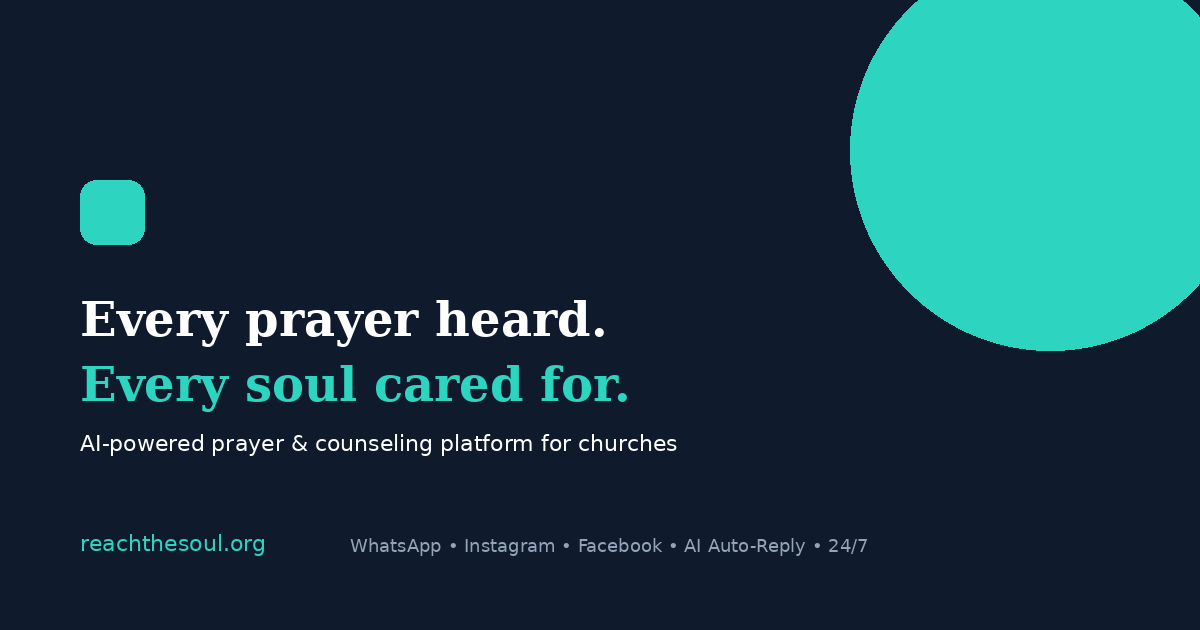
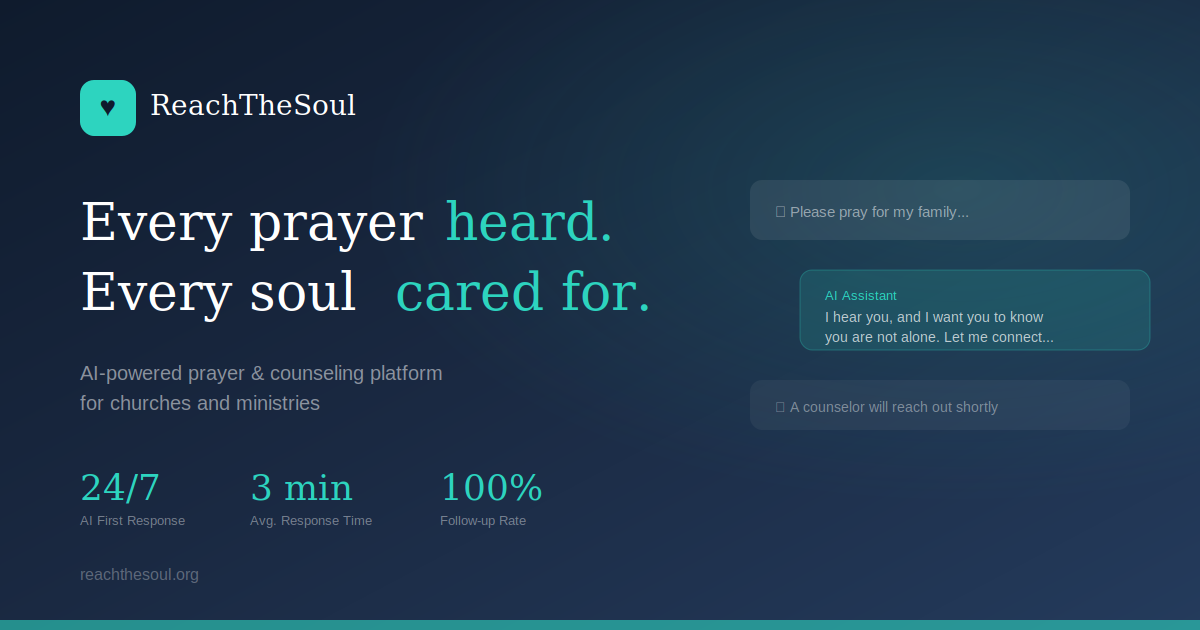
feat: plan management in Platform Admin

diff --git a/app/dashboard/platform/page.tsx b/app/dashboard/platform/page.tsx
@@ -385,6 +385,72 @@ export default function PlatformAdminPage() {
                         <p className="text-lg font-bold text-foreground">{org.usage.waConversationsThisMonth}</p>
                       </div>
                     </div>
+
+                    {/* Plan Management */}
+                    <div className="mt-4 p-3 rounded-lg border border-primary/20 bg-primary/5">
+                      <p className="text-[10px] font-semibold text-foreground mb-2 flex items-center gap-1.5">
+                        <Crown size={11} className="text-amber-500" /> Plan Management
+                      </p>
+                      <div className="flex items-center gap-3">
+                        <div className="flex-1">
+                          <label className="text-[9px] text-muted-foreground uppercase tracking-wide block mb-1">Current Plan</label>
+                          <select
+                            value={org.plan}
+                            onChange={async (e) => {
+                              const newPlan = e.target.value;
+                              try {
+                                const [{ doc, updateDoc, serverTimestamp }, { db }] = await Promise.all([
+                                  import("firebase/firestore"), import("@/lib/firebase"),
+                                ]);
+                                await updateDoc(doc(db, "organizations", org.orgId), {
+                                  plan: newPlan,
+                                  updatedAt: serverTimestamp(),
+                                });
+                                setOrgs((prev) => prev.map((o) => o.orgId === org.orgId ? { ...o, plan: newPlan } : o));
+                              } catch (err) {
+                                console.error("Failed to update plan:", err);
+                                alert("Failed to update plan. Please try again.");
+                              }
+                            }}
+                            className="w-full h-8 rounded-md border border-border bg-background px-2 text-xs font-semibold capitalize"
+                          >
+                            <option value="free">Free ($0)</option>
+                            <option value="starter">Starter ($29/mo)</option>
+                            <option value="growth">Growth ($79/mo)</option>
+                            <option value="enterprise">Enterprise ($249+/mo)</option>
+                          </select>
+                        </div>
+                        <div className="flex-1">
+                          <label className="text-[9px] text-muted-foreground uppercase tracking-wide block mb-1">Status</label>
+                          <button
+                            onClick={async () => {
+                              const newStatus = !org.isActive;
+                              try {
+                                const [{ doc, updateDoc, serverTimestamp }, { db }] = await Promise.all([
+                                  import("firebase/firestore"), import("@/lib/firebase"),
+                                ]);
+                                await updateDoc(doc(db, "organizations", org.orgId), {
+                                  isActive: newStatus,
+                                  updatedAt: serverTimestamp(),
+                                });
+                                setOrgs((prev) => prev.map((o) => o.orgId === org.orgId ? { ...o, isActive: newStatus } : o));
+                              } catch (err) {
+                                console.error("Failed to toggle status:", err);
+                              }
+                            }}
+                            className={cn(
+                              "w-full h-8 rounded-md text-xs font-semibold transition-colors",
+                              org.isActive
+                                ? "bg-green-100 text-green-700 border border-green-300 hover:bg-green-200"
+                                : "bg-red-100 text-red-700 border border-red-300 hover:bg-red-200"
+                            )}
+                          >
+                            {org.isActive ? "✓ Active" : "✕ Inactive"}
+                          </button>
+                        </div>
+                      </div>
+                    </div>
+
                     <div className="mt-3 flex gap-2">
                       <p className="text-[10px] text-muted-foreground flex items-center gap-1">
                         <Calendar size={11} /> Created: {new Date(org.createdAt).toLocaleDateString("en-US", { month: "long", day: "numeric", year: "numeric" })}

diff --git a/app/dashboard/tickets/new/page.tsx b/app/dashboard/tickets/new/page.tsx
@@ -414,9 +414,9 @@ function NewTicketInner() {
                       <Check size={14} className="text-emerald-600 flex-shrink-0" />
                       <div className="flex-1">
                         <p className="text-xs font-semibold text-emerald-700">
-                          {channelConfig.label} sudah dibuka
+                          {channelConfig.label} is already open
                         </p>
-                        <p className="text-[10px] text-emerald-600 mt-0.5">Lanjutkan untuk membuat tiket dari percakapan ini.</p>
+                        <p className="text-[10px] text-emerald-600 mt-0.5">Continue to create a ticket from this conversation.</p>
                       </div>
                       <Button
                         size="sm"
@@ -575,7 +575,7 @@ function NewTicketInner() {
               </div>
 
               <div className="flex justify-end gap-2 pt-2 border-t border-border">
-                <Button variant="outline" size="sm" asChild><Link href="/dashboard/tickets">Batal</Link></Button>
+                <Button variant="outline" size="sm" asChild><Link href="/dashboard/tickets">Cancel</Link></Button>
                 <Button
                   size="sm"
                   disabled={!respondentId || !subject.trim() || saving}
@@ -596,7 +596,7 @@ function NewTicketInner() {
         <Card className="border border-border shadow-none">
           <CardHeader className="pb-3 px-5 pt-5 border-b border-border">
             <CardTitle className="text-sm font-semibold flex items-center gap-2">
-              <ArrowDownLeft size={14} className="text-primary" />Tiket Masuk (Inbound)
+              <ArrowDownLeft size={14} className="text-primary" />Inbound Ticket
             </CardTitle>
           </CardHeader>
           <CardContent className="p-5 flex flex-col gap-4">
@@ -623,7 +623,7 @@ function NewTicketInner() {
                       <span className="text-xs text-muted-foreground">{respondent.city}</span>
                     )}
                     {prevTickets.length > 0 && (
-                      <span className="text-xs text-muted-foreground">{prevTickets.length} tiket sebelumnya</span>
+                      <span className="text-xs text-muted-foreground">{prevTickets.length} previous tickets</span>
                     )}
                   </div>
                 </div>
@@ -662,7 +662,7 @@ function NewTicketInner() {
                 </Select>
               </div>
               <div>
-                <label className="text-[10px] font-semibold text-muted-foreground uppercase tracking-wide mb-1.5 block">Masuk via (Channel)</label>
+                <label className="text-[10px] font-semibold text-muted-foreground uppercase tracking-wide mb-1.5 block">Received via (Channel)</label>
                 <Select value={leadSourceId} onValueChange={setLeadSourceId}>
                   <SelectTrigger className="h-9 text-sm"><SelectValue placeholder="Pilih channel..." /></SelectTrigger>
                   <SelectContent>
@@ -712,7 +712,7 @@ function NewTicketInner() {
             </div>
 
             <div className="flex justify-end gap-2 pt-2 border-t border-border">
-              <Button variant="outline" size="sm" asChild><Link href="/dashboard/tickets">Batal</Link></Button>
+              <Button variant="outline" size="sm" asChild><Link href="/dashboard/tickets">Cancel</Link></Button>
               <Button size="sm" disabled={!respondentId || !subject.trim() || saving} onClick={handleSave}>
                 {saving ? <><Check size={13} className="mr-1.5" />Menyimpan...</> : "Buat Tiket"}
               </Button>

diff --git a/app/dashboard/respondents/[id]/page.tsx b/app/dashboard/respondents/[id]/page.tsx
@@ -27,9 +27,9 @@ import { DEFAULT_PROGRESS_STEPS, DEFAULT_PROGRAM_SOURCES } from "@/types";
 // Progress step config
 const PROGRESS_CONFIG: Record<RespondentProgress, { color: string; bg: string; border: string; desc: string }> = {
   Data:       { color: "text-slate-600",   bg: "bg-slate-100",   border: "border-slate-300",  desc: "Identity recorded" },
-  Doa:        { color: "text-blue-600",    bg: "bg-blue-50",     border: "border-blue-200",   desc: "Prayed for" },
-  Konseling:  { color: "text-amber-600",   bg: "bg-amber-50",    border: "border-amber-200",  desc: "In counseling process" },
-  Rekomitmen: { color: "text-purple-600",  bg: "bg-purple-50",   border: "border-purple-200", desc: "Recommitment made" },
+  Prayer:    { color: "text-blue-600",    bg: "bg-blue-50",     border: "border-blue-200",   desc: "Prayed for" },
+  Counseling: { color: "text-amber-600",   bg: "bg-amber-50",    border: "border-amber-200",  desc: "In counseling" },
+  Recommitment: { color: "text-purple-600",  bg: "bg-purple-50",   border: "border-purple-200", desc: "Recommitment made" },
   Salvation:  { color: "text-emerald-600", bg: "bg-emerald-50",  border: "border-emerald-200",desc: "Accepted salvation" },
   POP:        { color: "text-orange-600",  bg: "bg-orange-50",   border: "border-orange-200", desc: "Part of the Parish" },
 };
@@ -906,7 +906,7 @@ export default function RespondentProfilePage() {
             <div>
               <h3 className="text-sm font-semibold text-foreground">Block Respondent</h3>
               <p className="text-xs text-muted-foreground mt-0.5">
-                Nomor <span className="font-mono font-semibold text-foreground">{respondent.phone ?? "—"}</span> tidak akan bisa menghubungi OMS di semua channel.
+                This number will be blocked from contacting your organization on all channels.
               </p>
             </div>
           </div>
@@ -916,7 +916,7 @@ export default function RespondentProfilePage() {
               Alasan Pemblokiran <span className="text-red-500">*</span>
             </label>
             <div className="flex flex-col gap-1.5 mb-2">
-              {["Spam / Bot", "Kata-kata tidak pantas", "Pelecehan agent", "Nomor tidak valid", "Lainnya"].map((reason) => (
+              {["Spam / Bot", "Inappropriate language", "Agent harassment", "Invalid number", "Other"].map((reason) => (
                 <button
                   key={reason}
                   onClick={() => setBlockReason(reason)}
@@ -933,7 +933,7 @@ export default function RespondentProfilePage() {
             </div>
             <Input
               placeholder="Atau tulis alasan lain..."
-              value={["Spam / Bot", "Kata-kata tidak pantas", "Pelecehan agent", "Nomor tidak valid", "Lainnya"].includes(blockReason) ? "" : blockReason}
+              value={["Spam / Bot", "Inappropriate language", "Agent harassment", "Invalid number", "Other"].includes(blockReason) ? "" : blockReason}
               onChange={(e) => setBlockReason(e.target.value)}
               className="h-8 text-xs"
             />

diff --git a/app/dashboard/admin/integrations/page.tsx b/app/dashboard/admin/integrations/page.tsx
@@ -419,7 +419,7 @@ export default function IntegrationsPage() {
         setupSteps={
           <ol className="flex flex-col gap-2 text-xs text-muted-foreground list-decimal list-inside leading-relaxed">
             <li>Go to Meta Developer Console → pilih app → <strong>Instagram → Webhooks</strong>.</li>
-            <li>Masukkan <em>Callback URL</em> dan <em>Verify Token</em> (sama dengan secret <code className="bg-muted px-1 rounded">INSTAGRAM_VERIFY_TOKEN</code>).</li>
+            <li>Enter the <em>Callback URL</em> and <em>Verify Token</em> (same as the secret <code className="bg-muted px-1 rounded">INSTAGRAM_VERIFY_TOKEN</code>).</li>
             <li>Subscribe to field: <code className="bg-muted px-1 rounded">messages</code>.</li>
             <li>Pastikan Instagram account terhubung ke Facebook Page dan Page terhubung ke app.</li>
           </ol>
@@ -449,9 +449,9 @@ export default function IntegrationsPage() {
         setupSteps={
           <ol className="flex flex-col gap-2 text-xs text-muted-foreground list-decimal list-inside leading-relaxed">
             <li>Go to Meta Developer Console → pilih app → <strong>Messenger → Configuration → Webhooks</strong>.</li>
-            <li>Masukkan <em>Callback URL</em> dan <em>Verify Token</em> (sama dengan secret <code className="bg-muted px-1 rounded">FACEBOOK_VERIFY_TOKEN</code>).</li>
+            <li>Enter the <em>Callback URL</em> and <em>Verify Token</em> (same as the secret <code className="bg-muted px-1 rounded">FACEBOOK_VERIFY_TOKEN</code>).</li>
             <li>Subscribe to field: <code className="bg-muted px-1 rounded">messages</code>.</li>
-            <li>Pastikan Facebook Page sudah disubscribe ke app.</li>
+            <li>Make sure the Facebook Page is subscribed to your app.</li>
           </ol>
         }
       />

diff --git a/app/dashboard/admin/call-settings/page.tsx b/app/dashboard/admin/call-settings/page.tsx
@@ -298,7 +298,7 @@ function CallSettingsContent() {
               <Field label="Virtual Number">
                 <Input value={vonageNumber} onChange={(e) => setVonageNumber(e.target.value)} placeholder="+62811xxxxxxx" className="h-8 text-xs font-mono" />
               </Field>
-              <ExpandSection title="Cara setup di Vonage Dashboard">
+              <ExpandSection title="How to set up in Vonage Dashboard">
                 <ol className="flex flex-col gap-2 list-decimal list-inside">
                   <li>Go to <a href="https://dashboard.nexmo.com" target="_blank" rel="noreferrer" className="text-primary underline">dashboard.nexmo.com</a>, copy API Key dan Secret.</li>
                   <li>Buat Voice Application: <strong>Applications → Create a new application</strong>, aktifkan Voice capability.</li>
@@ -327,7 +327,7 @@ function CallSettingsContent() {
               </Field>
               <ExpandSection title="Cara mendapatkan akses WhatsApp Calling">
                 <ol className="flex flex-col gap-2 list-decimal list-inside">
-                  <li>Pastikan bisnis Anda sudah terverifikasi di Meta Business Manager.</li>
+                  <li>Make sure your business is verified in Meta Business Manager.</li>
                   <li>Register for the beta program via Meta Partner Portal.</li>
                   <li>Setelah disetujui, aktifkan "Calls" di <a href="https://developers.facebook.com/apps" target="_blank" rel="noreferrer" className="text-primary underline">App Dashboard</a> → WhatsApp → Configuration.</li>
                   <li>Use a Permanent Page Access Token with scope <code className="bg-muted px-1 rounded">whatsapp_business_messaging</code>.</li>

diff --git a/app/dashboard/social-inbox/page.tsx b/app/dashboard/social-inbox/page.tsx
@@ -183,7 +183,7 @@ function DetailPanel({
             {(comment.status as string) === "converted" && comment.convertedTicketId && (
               <p className="text-xs text-violet-600 flex items-center gap-1">
                 <Ticket size={11} />
-                Tiket #{comment.convertedTicketId} sudah dibuat
+                Ticket #{comment.convertedTicketId} has been created
               </p>
             )}
           </div>
@@ -403,7 +403,7 @@ function SocialInboxContent() {
         ) : (
           <div className="flex-1 hidden md:flex flex-col items-center justify-center gap-3 text-muted-foreground bg-muted/20">
             <MessageSquare size={32} className="opacity-15" />
-            <p className="text-xs">Pilih komentar untuk melihat detail</p>
+            <p className="text-xs">Select a comment to view details</p>
             <div className="flex gap-3 mt-2">
               {(["youtube", "facebook", "instagram"] as SocialChannel[]).map((ch) => (
                 <div key={ch} className="flex items-center gap-1 text-[10px] text-muted-foreground">

diff --git a/app/register/page.tsx b/app/register/page.tsx
@@ -109,7 +109,7 @@ export default function RegisterPage() {
           ],
           channelToggles: {},
         },
-        progressSteps: ["Data", "Doa", "Konseling", "Rekomitmen", "Salvation", "POP"],
+        progressSteps: ["Data", "Prayer", "Counseling", "Recommitment", "Salvation", "Community"],
         programSources: ["Website", "WhatsApp", "Instagram", "Facebook", "YouTube", "Referral", "Event"],
         billingEmail: email.trim(),
         timezone,